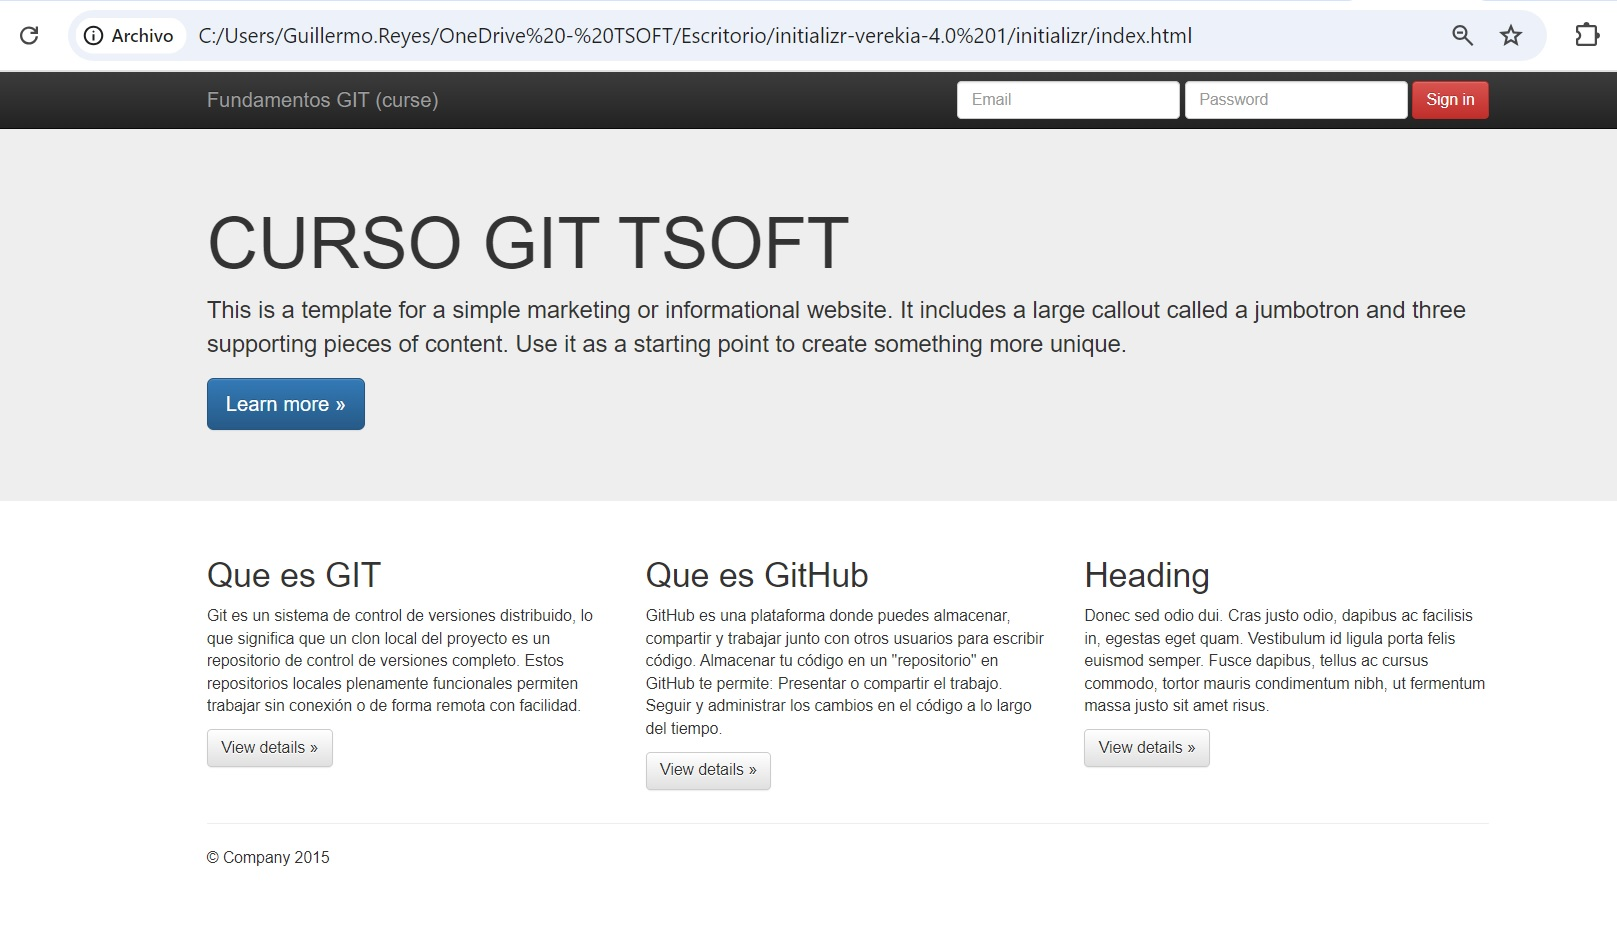
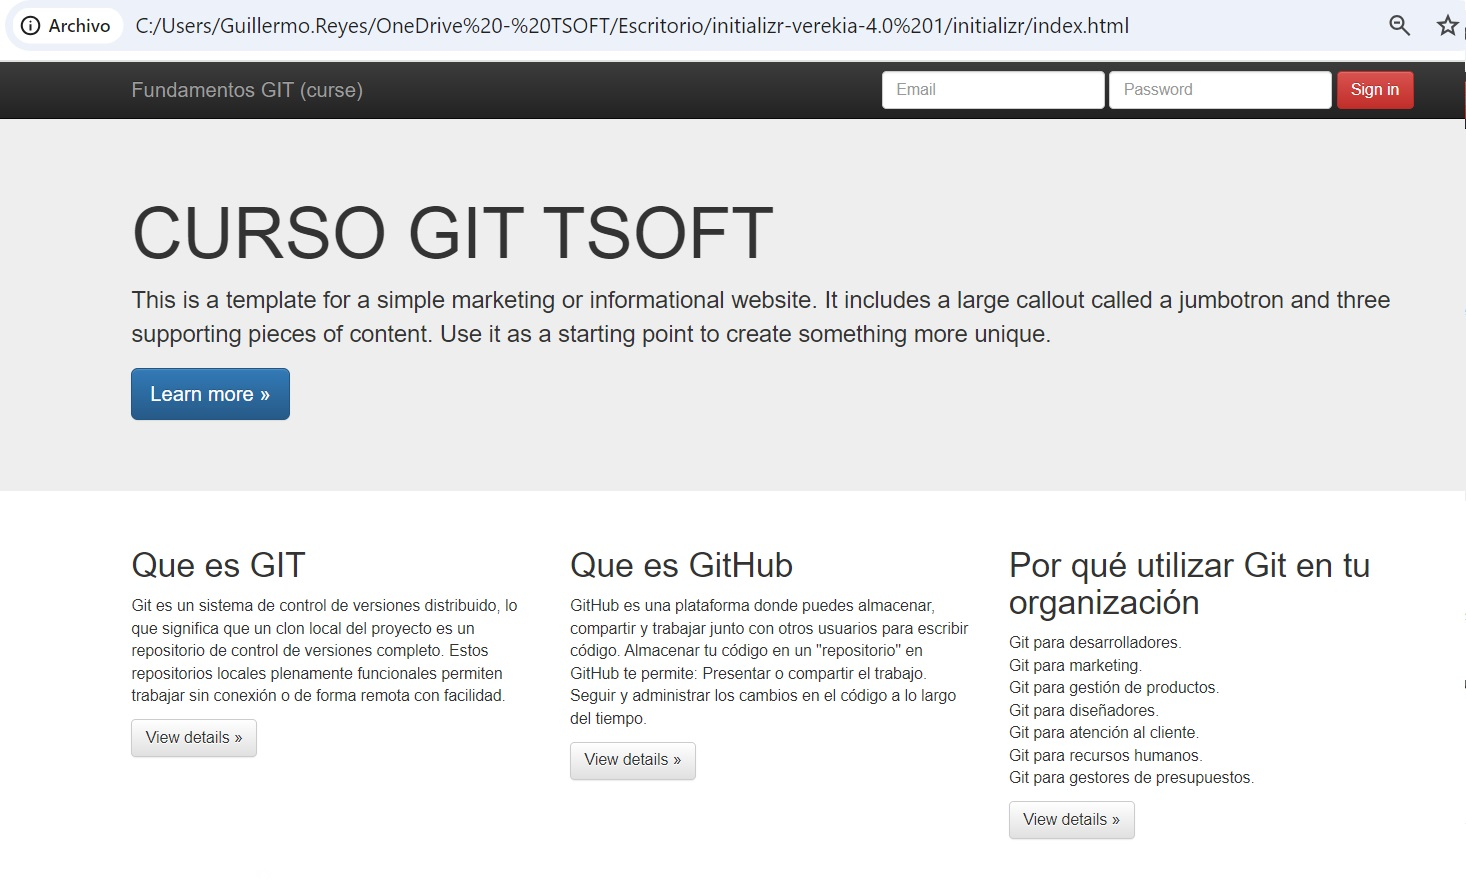
9° commit Index.html modificado y se agrega imagen de vista Index formato jpg

diff --git a/index.html b/index.html
@@ -75,8 +75,14 @@
           <p><a class="btn btn-default" href="#" role="button">View details &raquo;</a></p>
        </div>
         <div class="col-md-4">
-          <h2>Heading</h2>
-          <p>Donec sed odio dui. Cras justo odio, dapibus ac facilisis in, egestas eget quam. Vestibulum id ligula porta felis euismod semper. Fusce dapibus, tellus ac cursus commodo, tortor mauris condimentum nibh, ut fermentum massa justo sit amet risus.</p>
+          <h2>Por qué utilizar Git en tu organización</h2>
+          <p>Git para desarrolladores. <br>
+Git para marketing. <br>
+Git para gestión de productos. <br>
+Git para diseñadores. <br>
+Git para atención al cliente. <br>
+Git para recursos humanos. <br>
+Git para gestores de presupuestos.</p>
           <p><a class="btn btn-default" href="#" role="button">View details &raquo;</a></p>
         </div>
       </div>
